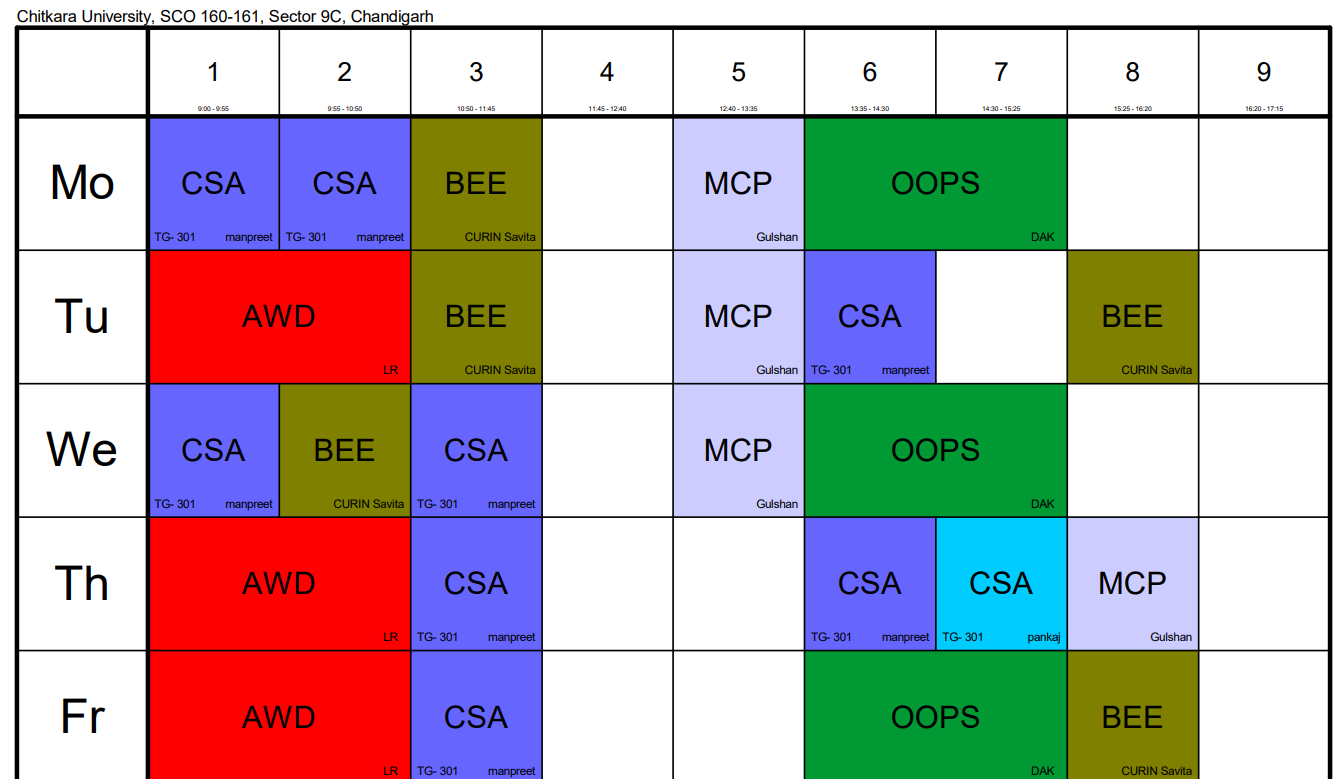
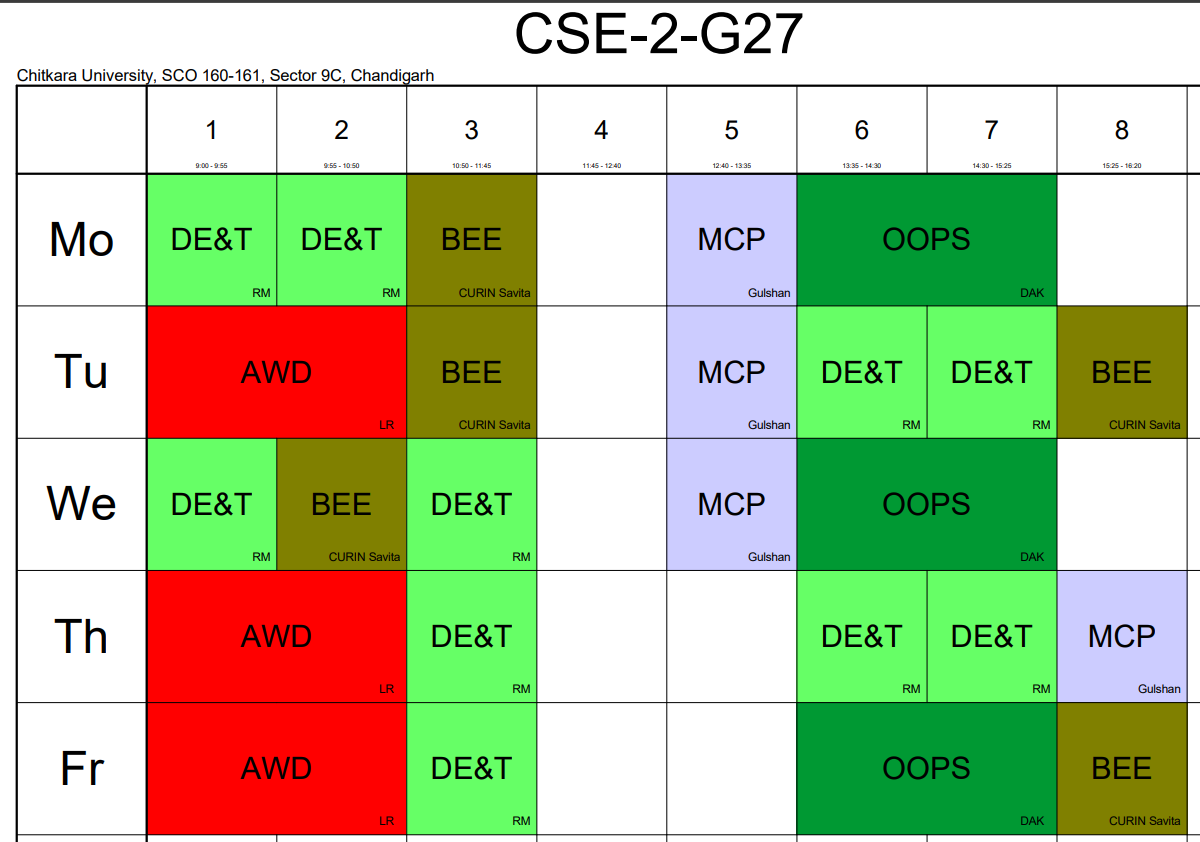
commit on 'main'

diff --git a/index.html b/index.html
@@ -6,7 +6,8 @@
     <meta http-equiv="X-UA-Compatible" content="IE=edge">
     <meta name="viewport" content="width=device-width, initial-scale=1.0">
     <link rel="stylesheet" href="styles.css">
-    <link rel="stylesheet" href="https://maxcdn.bootstrapcdn.com/bootstrap/4.0.0/css/bootstrap.min.css" integrity="sha384-Gn5384xqQ1aoWXA+058RXPxPg6fy4IWvTNh0E263XmFcJlSAwiGgFAW/dAiS6JXm" crossorigin="anonymous">
+    <link rel="stylesheet" href="https://maxcdn.bootstrapcdn.com/bootstrap/4.0.0/css/bootstrap.min.css"
+        integrity="sha384-Gn5384xqQ1aoWXA+058RXPxPg6fy4IWvTNh0E263XmFcJlSAwiGgFAW/dAiS6JXm" crossorigin="anonymous">
     <script async src="https://www.googletagmanager.com/gtag/js?id=G-KEK37YTT5P"></script>
     <script>
         window.dataLayer = window.dataLayer || [];
@@ -20,21 +21,28 @@
     </script>
     <title>Time Table</title>
 </head>
-<script src="https://code.jquery.com/jquery-3.2.1.slim.min.js" integrity="sha384-KJ3o2DKtIkvYIK3UENzmM7KCkRr/rE9/Qpg6aAZGJwFDMVNA/GpGFF93hXpG5KkN" crossorigin="anonymous"></script>
+<script src="https://code.jquery.com/jquery-3.2.1.slim.min.js"
+    integrity="sha384-KJ3o2DKtIkvYIK3UENzmM7KCkRr/rE9/Qpg6aAZGJwFDMVNA/GpGFF93hXpG5KkN" crossorigin="anonymous">
+</script>
 
 
 <body>
-    <script src="https://cdnjs.cloudflare.com/ajax/libs/popper.js/1.12.9/umd/popper.min.js" integrity="sha384-ApNbgh9B+Y1QKtv3Rn7W3mgPxhU9K/ScQsAP7hUibX39j7fakFPskvXusvfa0b4Q" crossorigin="anonymous"></script>
-    <script src="https://maxcdn.bootstrapcdn.com/bootstrap/4.0.0/js/bootstrap.min.js" integrity="sha384-JZR6Spejh4U02d8jOt6vLEHfe/JQGiRRSQQxSfFWpi1MquVdAyjUar5+76PVCmYl" crossorigin="anonymous"></script>
+    <script src="https://cdnjs.cloudflare.com/ajax/libs/popper.js/1.12.9/umd/popper.min.js"
+        integrity="sha384-ApNbgh9B+Y1QKtv3Rn7W3mgPxhU9K/ScQsAP7hUibX39j7fakFPskvXusvfa0b4Q" crossorigin="anonymous">
+    </script>
+    <script src="https://maxcdn.bootstrapcdn.com/bootstrap/4.0.0/js/bootstrap.min.js"
+        integrity="sha384-JZR6Spejh4U02d8jOt6vLEHfe/JQGiRRSQQxSfFWpi1MquVdAyjUar5+76PVCmYl" crossorigin="anonymous">
+    </script>
 
     <nav class="navbar navbar-expand-lg navbar-light bg-light">
         <a class="navbar-brand" href="#">Quick links</a>
-        <button class="navbar-toggler" type="button" data-toggle="collapse" data-target="#navbarNavAltMarkup" aria-controls="navbarNavAltMarkup" aria-expanded="false" aria-label="Toggle navigation">
+        <button class="navbar-toggler" type="button" data-toggle="collapse" data-target="#navbarNavAltMarkup"
+            aria-controls="navbarNavAltMarkup" aria-expanded="false" aria-label="Toggle navigation">
             <div class="navbar-toggler-icon"></div>
         </button>
         <div class="collapse navbar-collapse" id="navbarNavAltMarkup">
             <div class="navbar-nav">
-                <a class="nav-item nav-link" href="#csa">CASA/CSA</a>
+                <a class="nav-item nav-link" href="#csa">DE & T</a>
                 <a class="nav-item nav-link" href="#bee">BEE</a>
                 <a class="nav-item nav-link" href="#mcp">MCP</a>
             </div>
@@ -44,78 +52,79 @@
     <div class="heading">Time Table and Class Links</div>
     <img class="tt" src="tt.png" alt="timetable-img" style="width: 100%; height: auto;">
 
-       <div id="csa">
-            <div class="heading">
-                CSA/CASA class links
-            </div>
-
-            <div class="weekday">Monday:</div>
-                <div class="lecture">
-                    Lecture 1 and 2:
-                </div>
-
-                <a href="https://zoom.us/meeting/register/tJIqdemsqTIrHdTIpDglsJJdq0rpGxD_TXjC">Click here to register</a>
-                
-            
-
-            <div class="weekday">Tuesday:</div>
-                <div class="lecture">
-                    Lecture 6:
-                </div>
-
-                <a href="https://zoom.us/meeting/register/tJUtcuqgqjgsGNPol7QGc48eSETOZHhBqAgj">Click here to register </a>
-            
-            
-            <div class="weekday">Wednesday:</div>
-                <div class="lecture">
-                    Lecture 1:
-                </div>
-
-                <a href="https://zoom.us/meeting/register/tJUvfu6urDMjGtxcIflcwf7wo2YIAo-EV9tS">Click here to register</a>
-
-            <div class="lecture">Lecture 3:</div>
-
-            <a href="https://zoom.us/meeting/register/tJUoduypqTsoH91dy-Kr29mEbA2Urg5bX9fh">Click here to register</a>
-
-            <div class="weekday">Thursday:</div>
-                <div class="lecture">Lecture 3:</div>
-                
-                <a href="https://zoom.us/meeting/register/tJElceirqjMpE9Ob7Z-mzq42gGgTIw0xZzqi">Click here to register</a>
-
-            <div class="lecture">Lecture 6:</div><a href="https://zoom.us/meeting/register/tJIpf-Ctpz0rGdG5DUQM_tJ3VVIj1564rPnB">Click here to register</a>
-
-
-            <div class="weekday">Friday:</div>
-                <div class="lecture">Lecture 3:</div>
-                
-                <a href="https://zoom.us/meeting/register/tJ0sdeCgpzsiH9C8hdCYMbZaqM5v5C97VDXg">Click here to register</a>
+    <div id="csa">
+        <div class="heading">
+            Differential Equations &Transformations (AM122)
         </div>
 
-        <br>
-        <br>
-
-
-
-        <div id="bee">
-            <div class="heading">Link for BEE class</div>
-            Same link daily  <a href="https://meet.google.com/lookup/gxsk6meyol-">Register</a>
+        <div class="weekday">Monday:</div>
+        <div class="lecture">
+            Lecture 1 and 2:
         </div>
 
-        <br>
-        <br>
+        <a href="https://zoom.us/meeting/register/tJIqf-CpqjssG9xTtBVXQUxVHn7Ta07NGopY">Click here to register</a>
+
+
+
+        <div class="weekday">Tuesday:</div>
+        <div class="lecture">
+            Lecture 6 and 7:
+        </div>
+
+        <a href="https://zoom.us/meeting/register/tJ0ucumrrDwqE9fQt_hvPkz8cLcfImnPyHRa">Click here to register </a>
+
+
+        <div class="weekday">Wednesday:</div>
+        <div class="lecture">
+            Lecture 1:
+        </div>
+
+        <a href="https://zoom.us/meeting/register/tJYvdeigqj4iHtyvwGhfhuanRoIp9forOYVv">Click here to register</a>
+
+        <div class="lecture">Lecture 3:</div>
+
+        <a href="https://zoom.us/meeting/register/tJYocOuspjgoHdCbZgE0EZWqkSwgr1SWUC8w">Click here to register</a>
+
+        <div class="weekday">Thursday:</div>
+        <div class="lecture">Lecture 3:</div>
+
+        <a href="https://zoom.us/meeting/register/tJYocOuspjgoHdCbZgE0EZWqkSwgr1SWUC8w">Click here to register</a>
+
+        <div class="lecture">Lecture 6 and 7:</div><a
+            href="https://zoom.us/meeting/register/tJ0ucumrrDwqE9fQt_hvPkz8cLcfImnPyHRa">Click here to register</a>
+
+
+        <div class="weekday">Friday:</div>
+        <div class="lecture">Lecture 3:</div>
+
+        <a href="https://zoom.us/meeting/register/tJYocOuspjgoHdCbZgE0EZWqkSwgr1SWUC8w">Click here to register</a>
+    </div>
+
+    <br>
+    <br>
+
+
+
+    <div id="bee">
+        <div class="heading">Link for BEE class</div>
+        Same link daily <a href="https://meet.google.com/lookup/gxsk6meyol">Register</a>
+    </div>
+
+    <br>
+    <br>
 
 
     <div id="mcp">
         <div class="heading">Link for MCP class</div>
-            <div class="weekday">
-                Monday to Wednesday
-            </div>
-            
-            <a href="https://zoom.us/meeting/register/tJctduqvpjsqGNXDgjP-HEHkTiog9DccbWRn">Click here to register</a>
+        <div class="weekday">
+            Monday to Wednesday
+        </div>
 
-            <div class="weekday">Thursday</div>
-            
-            <a href="https://zoom.us/meeting/register/tJwsd-qqpjooGtLJ-G79ycphTfLPPPWVEBSK">Click here to register</a>
+        <a href="https://zoom.us/meeting/register/tJctduqvpjsqGNXDgjP-HEHkTiog9DccbWRn">Click here to register</a>
+
+        <div class="weekday">Thursday</div>
+
+        <a href="https://zoom.us/meeting/register/tJwsd-qqpjooGtLJ-G79ycphTfLPPPWVEBSK">Click here to register</a>
     </div>
 
 </body>
